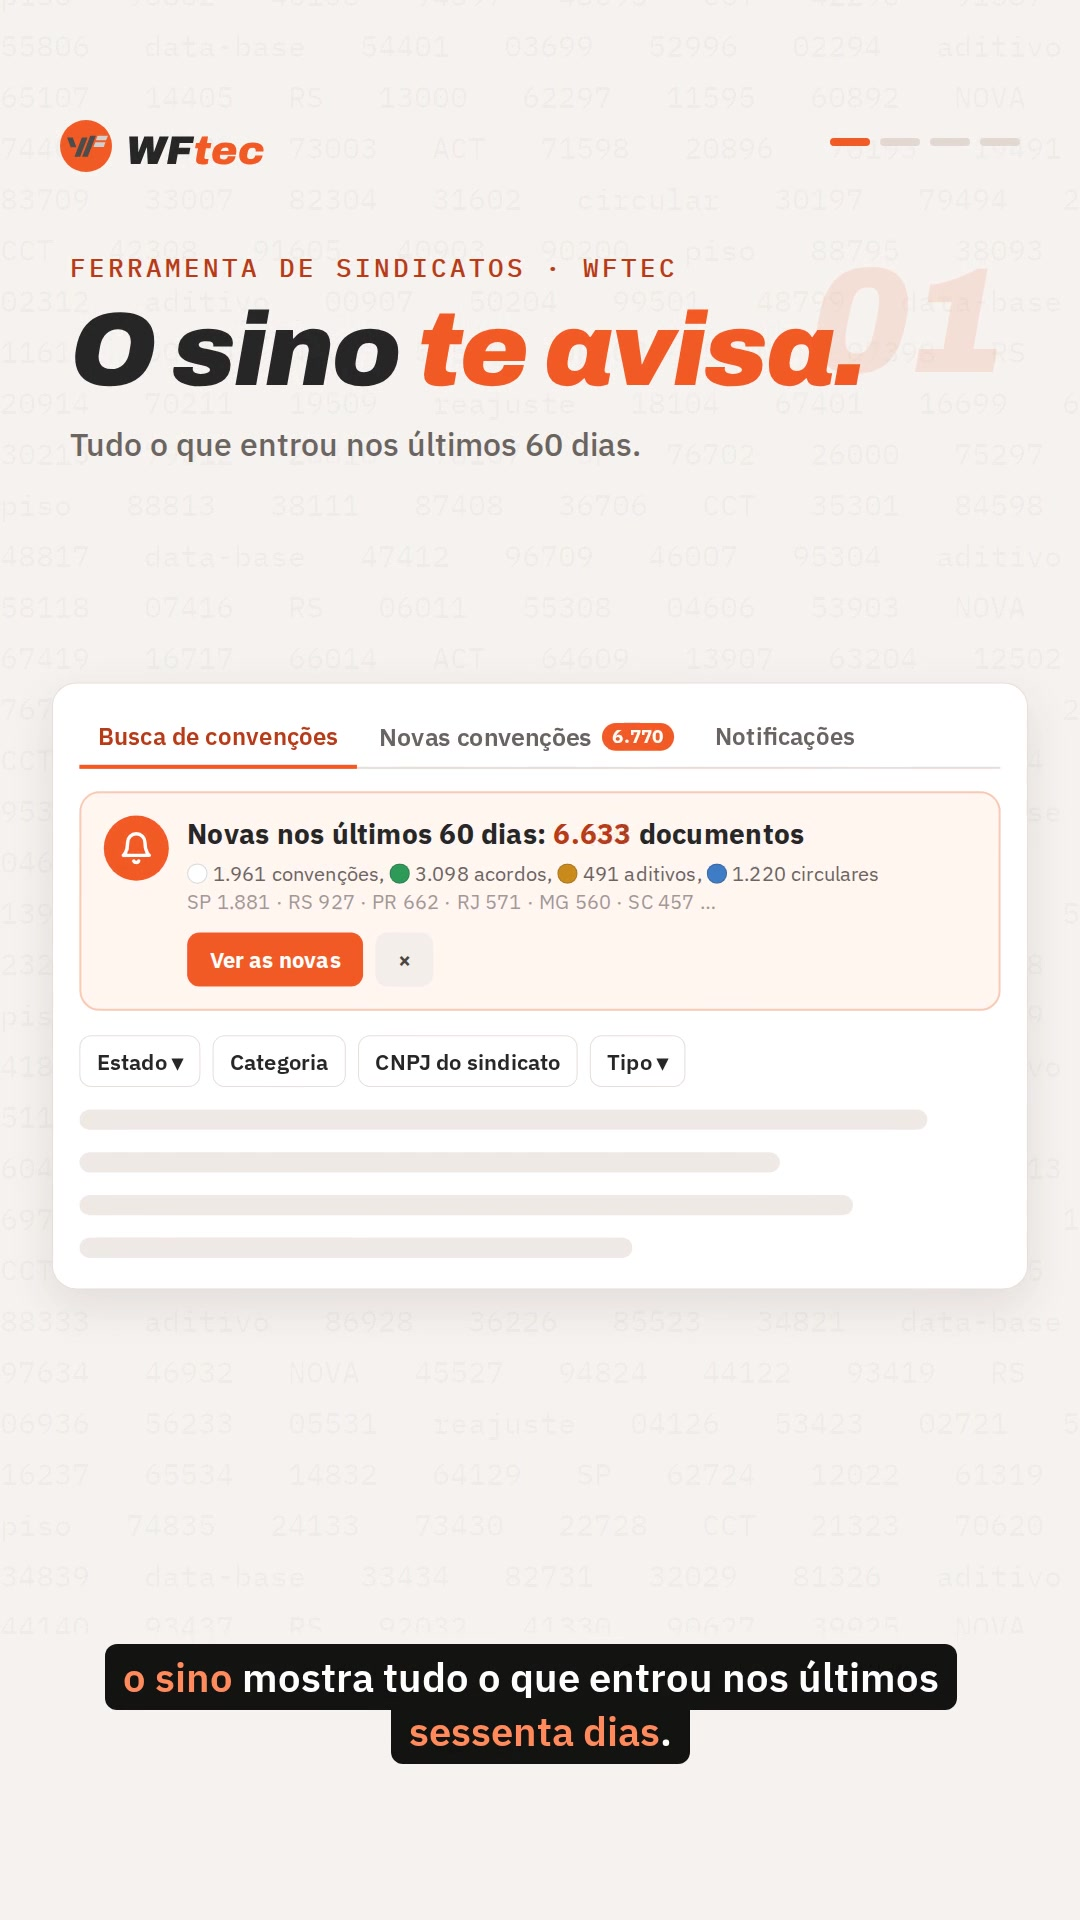
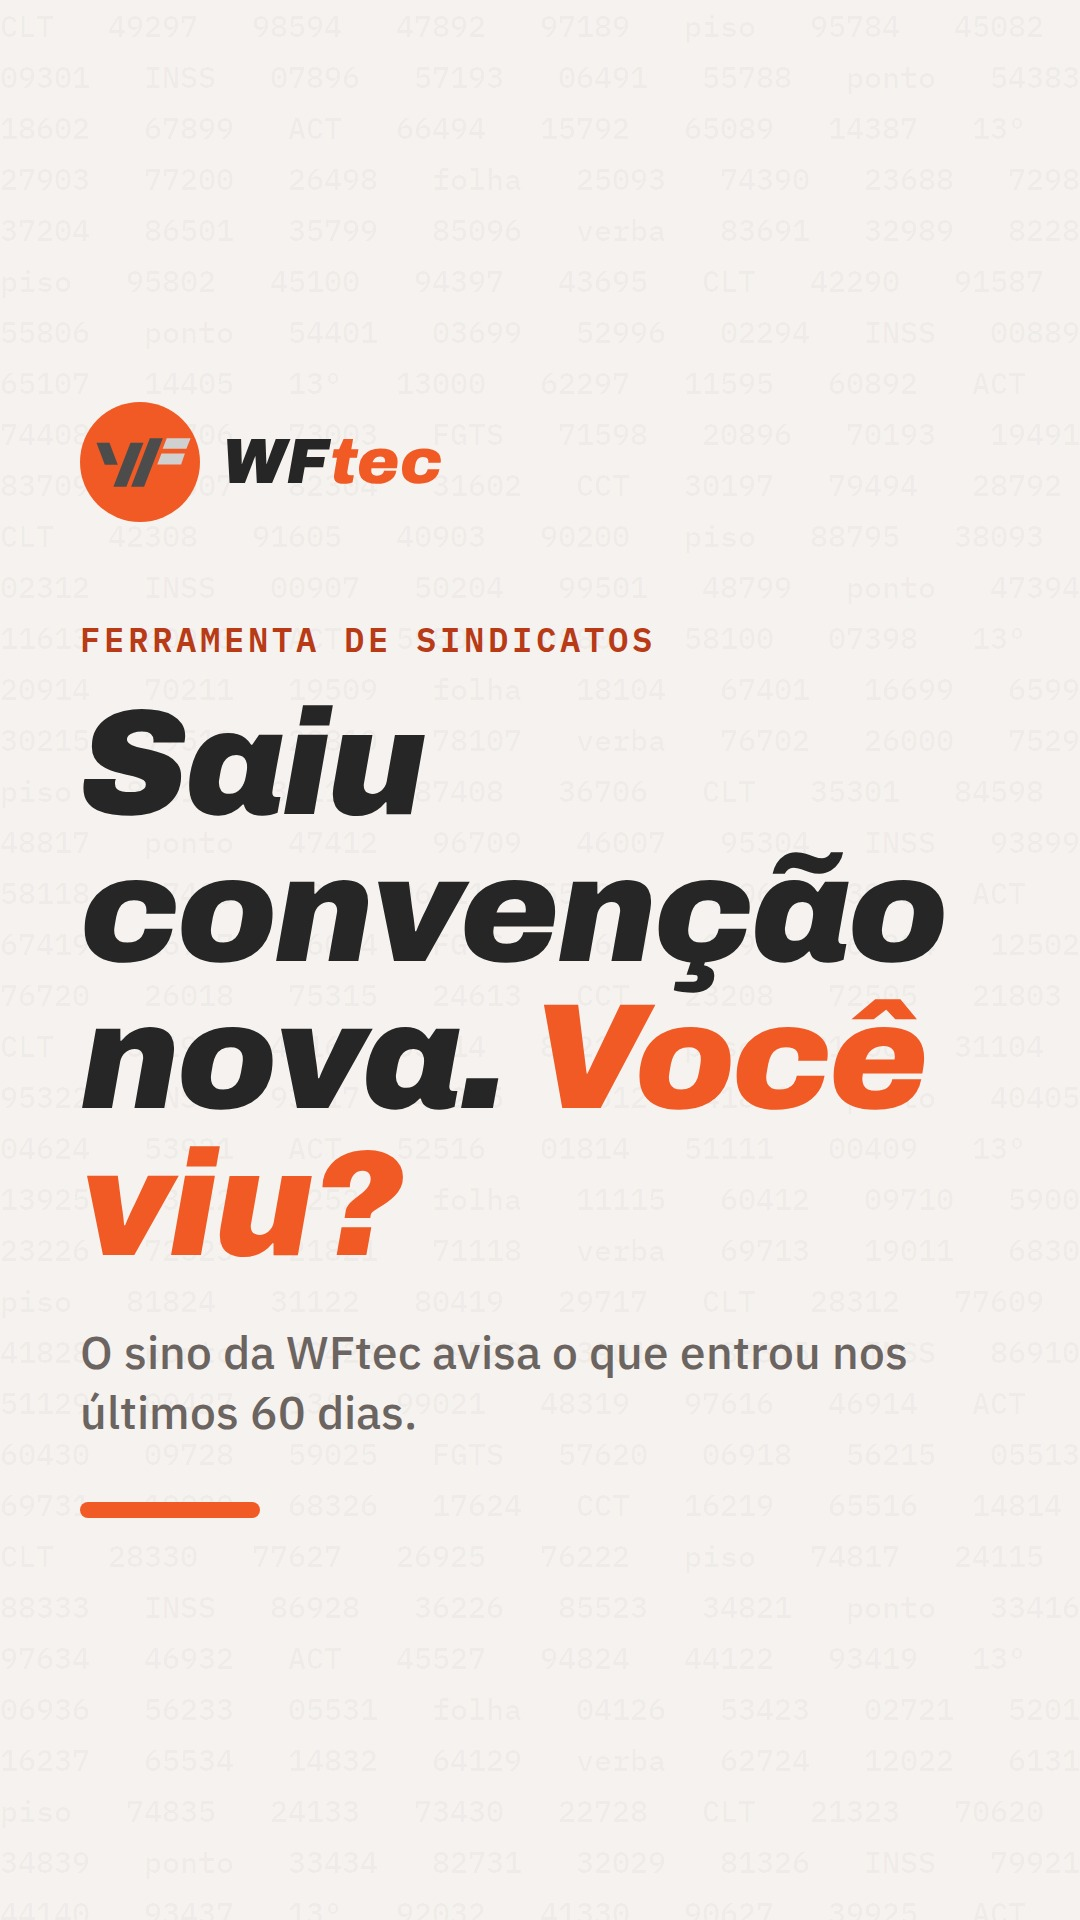
Capas desenhadas para os Reels (kit/capa.py)
Claude-Session: https://claude.ai/code/session_01Cqphpxe9zKzs9eMpn1xudf

diff --git a/kit/capa.py b/kit/capa.py
@@ -1,0 +1,24 @@
+"""Capa de Reels da WFtec (1080x1920), pensada para o recorte da grade do perfil (3:4, faixa central y=240..1680).
+Uso: python3 kit/capa.py saida.jpg "KICKER" "Título com <em>destaque</em>?" "Subtítulo curto" [tema]
+tema: claro (padrão) ou escuro. Regras: pergunta curta (até ~7 palavras), destaque laranja, sem legenda de vídeo."""
+import sys, pathlib
+from playwright.sync_api import sync_playwright
+KIT = pathlib.Path(__file__).resolve().parent
+out, kicker, titulo, sub = sys.argv[1:5]; escuro = len(sys.argv) > 5 and sys.argv[5] == "escuro"
+logo = (KIT/"wftec-simbolo.svg").read_text().replace("<svg ", '<svg style="width:120px;height:120px" ', 1)
+html = f"""<!doctype html><html><head><meta charset="utf-8"><link rel="stylesheet" href="{(KIT/'base.css').as_uri()}">
+<style>body{{margin:0}}#c{{position:relative;width:1080px;height:1920px;overflow:hidden;background:{'#141312' if escuro else 'var(--paper)'};color:{'#F1ECE8' if escuro else 'var(--ink)'}}}
+#in{{position:absolute;left:80px;right:80px;top:330px;height:1260px;display:flex;flex-direction:column;justify-content:center}}
+.lg{{display:flex;align-items:center;gap:22px;font:italic 900 64px Archivo}}.lg b{{color:var(--ac)}}
+.kk{{font:600 34px Mono;letter-spacing:4px;color:{'#FF8A5C' if escuro else 'var(--act)'};margin-top:90px}}
+h1{{font:italic 900 150px/0.98 Archivo;letter-spacing:-3px;margin-top:26px}}
+.sb{{font:500 46px/1.3 Plex;color:{'#A89F99' if escuro else 'var(--muted)'};margin-top:44px}}
+.bar{{width:180px;height:16px;border-radius:8px;background:var(--ac);margin-top:60px}}</style></head><body>
+<div id="c"><div class="bg"></div><div id="in"><div class="lg">{logo}<span>WF<b>tec</b></span></div>
+<div class="kk">{kicker}</div><h1>{titulo}</h1><div class="sb">{sub}</div><div class="bar"></div></div></div></body></html>"""
+tmp = KIT/"_capa.html"; tmp.write_text(html, encoding="utf-8")
+with sync_playwright() as p:
+    b = p.chromium.launch(); pg = b.new_page(viewport={"width":1080,"height":1920}); pg.goto(tmp.as_uri())
+    pg.evaluate("""()=>{const W=['CLT','FGTS','INSS','CCT','ACT','piso','folha','ponto','verba','13º'];let s='';for(let r=0;r<60;r++){let t='';for(let c=0;c<8;c++)t+=(((r*7+c*13)%5===0)?W[(r+c)%W.length]:String((r*9301+c*49297)%99999).padStart(5,'0'))+'   ';s+=t+'\\n'}document.querySelector('.bg').textContent=s}""")
+    pg.evaluate("document.fonts.ready"); pg.wait_for_timeout(500); pg.screenshot(path="/tmp/_capa.png"); b.close()
+from PIL import Image; Image.open("/tmp/_capa.png").convert("RGB").save(out, quality=92); tmp.unlink(); print(out)

diff --git a/CLAUDE.md b/CLAUDE.md
@@ -131,7 +131,12 @@ Nunca deixe o dia sem post e nunca reposte um vídeo antigo.
 6. **Conferência:** rode `python3 kit/video/build.py PASTA --preview 2,6,10,...`.
    - Olhe os quadros com Read: nada cortado, sobreposto ou vazio demais.
    - Corrija e repita até ficar bom.
-7. **Renderização:** rode `python3 kit/video/build.py PASTA`. Ele gera `video.mp4` e `capa.jpg` em cerca de 3 minutos.
+7. **CAPA (atenção redobrada, pedido do Wanderson):** a capa NUNCA é um quadro do meio do vídeo, porque esse quadro aparece com legenda e tela pela metade e fica feio na grade do perfil.
+   - Gere uma capa desenhada: `python3 kit/capa.py PASTA/capa.jpg "KICKER" "Pergunta com <em>destaque</em>?" "Subtítulo curto"`.
+   - O kicker é o nome do produto em caixa alta. O título é a pergunta-gancho, com até cerca de 7 palavras.
+   - Tudo fica dentro da faixa central que a grade 3:4 mostra.
+   - Rode **depois** do build final, porque o build sobrescreve `capa.jpg`. Olhe a capa com Read antes de publicar.
+8. **Renderização:** rode `python3 kit/video/build.py PASTA`. Ele gera `video.mp4` e `capa.jpg` em cerca de 3 minutos.
    - Faça commit só de `video.html`, `video.json`, `video.mp4` e `capa.jpg`. O `.gitignore` já ignora o resto.
 
 ## Regras de conteúdo (obrigatórias)
